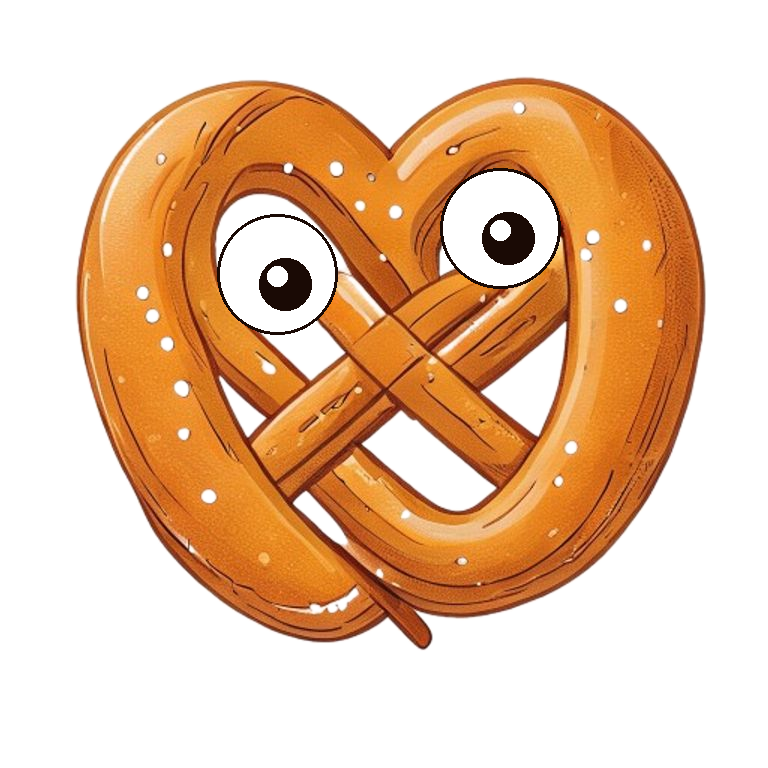
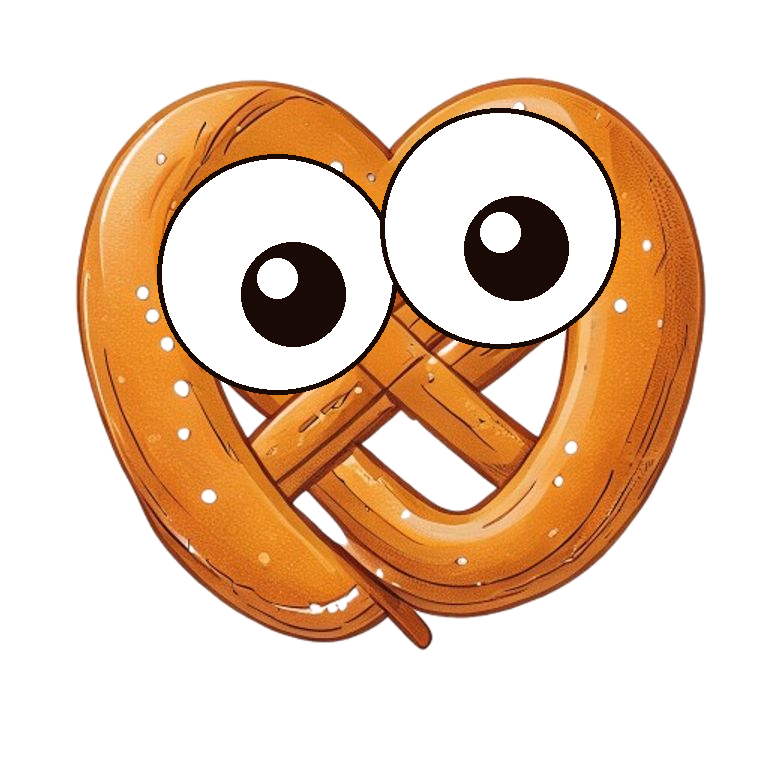
feat(brand, match): double pretzel eyes + lower emoji FAB + captain marker on pitch
Three asks bundled together:

1. PRETZEL EYES — doubled all 3 eye radius constants in repaint script
   (60→120 sclera, 26→52 pupil, 10→20 highlight) plus proportionally
   scaled the pupil + highlight offsets (8→16). Outline stroke 3→5 so
   the bigger sclera doesn't look unnaturally thin. Repaint script rerun
   regenerates the PNG; cache-bust ?v=5→?v=6 in the two consumers
   (DirectorCommentary, TeamSelectionModal captain banner).

2. EMOJI FAB — ReactionsButton dropped from `bottom-44` (176px) to
   `bottom-24` (96px). That's 80px lower visually, almost flush with
   the bottom edge. Keeps a 12px gap above the chat input on the chat
   tab (input sits at bottom-6, ~84px from bottom edge) so they
   don't collide.

3. CAPTAIN ON SQUAD PITCH — SquadVisualization now derives a
   captainPlayerIds Set from `members[*].captainPlayerId` and threads
   it down to CombinedPitchView. PlayerDot renders a yellow gradient
   "C" disc at top-right when its playerId is in that set. Every
   member's captain (yours + opponents) shows on the pitch so users
   can spot the 2x scorers at a glance. The badge sits OUTSIDE the
   dot's circular clip via an outer wrapper — the inner avatar still
   uses overflow:hidden for the photo crop.

Changed region(s): [[0.1875, 0.125, 0.8125, 0.5312]]

diff --git a/frontend/src/components/match/CombinedPitchView.jsx b/frontend/src/components/match/CombinedPitchView.jsx
@@ -32,7 +32,7 @@ function computeRowPcts(positioned, team) {
   return pcts
 }
 
-function PlayerDot({ player, xPct, yPct, color, isSelected, onClick }) {
+function PlayerDot({ player, xPct, yPct, color, isSelected, isCaptain, onClick }) {
   return (
     <div
       onClick={onClick}
@@ -40,41 +40,75 @@ function PlayerDot({ player, xPct, yPct, color, isSelected, onClick }) {
         position: 'absolute',
         left: `${xPct}%`,
         top: `${yPct}%`,
+        // outer wrapper keeps the captain badge OUTSIDE the dot's circular
+        // clip; the dot's `overflow: hidden` lives on the inner avatar wrapper.
         transform: 'translate(-50%, -50%)',
         width: 34,
         height: 34,
-        borderRadius: '50%',
-        background: isSelected ? '#14532d' : `${color}44`,
-        border: `2px solid ${isSelected ? '#22c55e' : color}`,
-        boxShadow: isSelected ? '0 0 8px rgba(34,197,94,0.7)' : '0 1px 6px rgba(0,0,0,0.7)',
         cursor: 'pointer',
-        overflow: 'hidden',
-        display: 'flex',
-        alignItems: 'center',
-        justifyContent: 'center',
-        zIndex: 1,
+        zIndex: isCaptain ? 2 : 1,
         WebkitTapHighlightColor: 'transparent',
         flexShrink: 0,
       }}
     >
-      {player.imageUrl ? (
-        <>
-          <img
-            src={player.imageUrl}
-            alt=""
-            referrerPolicy="no-referrer"
-            style={{ width: '100%', height: '100%', objectFit: 'cover', objectPosition: 'center top', display: 'block' }}
-            onError={e => { e.currentTarget.style.display = 'none'; e.currentTarget.nextSibling.style.display = 'block' }}
-          />
-          <span style={{ display: 'none', color: 'white', fontWeight: 900, fontSize: 10, fontFamily: 'system-ui' }}>
+      {/* Captain marker — yellow "C" disc at the top-right of the dot.
+          Renders for every member's captain on the pitch (current user
+          + opponents) so users see who has the 2× scoring boost. */}
+      {isCaptain && (
+        <div style={{
+          position: 'absolute',
+          top: -4,
+          right: -4,
+          width: 16,
+          height: 16,
+          borderRadius: '50%',
+          background: 'linear-gradient(135deg, #fcd34d 0%, #d97706 100%)',
+          border: '1.5px solid #fbbf24',
+          boxShadow: '0 0 6px rgba(252,211,77,0.7), 0 2px 3px rgba(0,0,0,0.4)',
+          color: '#1a0606',
+          fontSize: 10,
+          fontWeight: 900,
+          lineHeight: '13px',
+          fontFamily: 'system-ui, sans-serif',
+          textAlign: 'center',
+          zIndex: 3,
+          pointerEvents: 'none',
+        }}>C</div>
+      )}
+
+      <div
+        style={{
+          width: 34,
+          height: 34,
+          borderRadius: '50%',
+          background: isSelected ? '#14532d' : `${color}44`,
+          border: `2px solid ${isSelected ? '#22c55e' : color}`,
+          boxShadow: isSelected ? '0 0 8px rgba(34,197,94,0.7)' : '0 1px 6px rgba(0,0,0,0.7)',
+          overflow: 'hidden',
+          display: 'flex',
+          alignItems: 'center',
+          justifyContent: 'center',
+        }}
+      >
+        {player.imageUrl ? (
+          <>
+            <img
+              src={player.imageUrl}
+              alt=""
+              referrerPolicy="no-referrer"
+              style={{ width: '100%', height: '100%', objectFit: 'cover', objectPosition: 'center top', display: 'block' }}
+              onError={e => { e.currentTarget.style.display = 'none'; e.currentTarget.nextSibling.style.display = 'block' }}
+            />
+            <span style={{ display: 'none', color: 'white', fontWeight: 900, fontSize: 10, fontFamily: 'system-ui' }}>
+              {player.shirtNumber || '?'}
+            </span>
+          </>
+        ) : (
+          <span style={{ color: 'white', fontWeight: 900, fontSize: 10, fontFamily: 'system-ui' }}>
             {player.shirtNumber || '?'}
           </span>
-        </>
-      ) : (
-        <span style={{ color: 'white', fontWeight: 900, fontSize: 10, fontFamily: 'system-ui' }}>
-          {player.shirtNumber || '?'}
-        </span>
-      )}
+        )}
+      </div>
     </div>
   )
 }
@@ -89,7 +123,9 @@ export function CombinedPitchView({
   onHomePlayerClick,
   onAwayPlayerClick,
   selectedPlayerId = null,
+  captainPlayerIds = null,   // Set<string> of every member's captainPlayerId
 }) {
+  const captainSet = captainPlayerIds instanceof Set ? captainPlayerIds : new Set()
   const homePositioned = assignPlayersToFormation(homePlayers)
   const awayPositioned = assignPlayersToFormation(awayPlayers)
   const homeRowPcts = computeRowPcts(homePositioned, 'home')
@@ -170,6 +206,7 @@ export function CombinedPitchView({
               yPct={yPct}
               color={AWAY_COLOR}
               isSelected={!!(selectedPlayerId && player.playerId === selectedPlayerId)}
+              isCaptain={captainSet.has(player.playerId)}
               onClick={() => onAwayPlayerClick?.(player)}
             />
           )
@@ -187,6 +224,7 @@ export function CombinedPitchView({
               yPct={yPct}
               color={HOME_COLOR}
               isSelected={!!(selectedPlayerId && player.playerId === selectedPlayerId)}
+              isCaptain={captainSet.has(player.playerId)}
               onClick={() => onHomePlayerClick?.(player)}
             />
           )

diff --git a/frontend/src/components/match/SquadVisualization.jsx b/frontend/src/components/match/SquadVisualization.jsx
@@ -1,4 +1,4 @@
-import { useState } from 'react'
+import { useMemo, useState } from 'react'
 import { CombinedPitchView } from './CombinedPitchView'
 import { PlayerStatsPopup } from './PlayerStatsPopup'
 import { gameTimeToSeconds, formatFootballTime } from '../../utils/matchEvents'
@@ -150,6 +150,15 @@ export function SquadVisualization({
   // so this just sorts & renders. Empty when the room has no members yet.
   const sortedMembers = [...members].sort((a, b) => (b.score ?? 0) - (a.score ?? 0))
 
+  // Captain markers on the pitch: collect every member's captainPlayerId
+  // into one set so the PitchView can render a yellow "C" disc on each
+  // captain's dot — your captain AND your opponent's captain both
+  // highlighted (helps users spot the 2× scorer at a glance).
+  const captainPlayerIds = useMemo(
+    () => new Set((members || []).map(m => m.captainPlayerId).filter(Boolean)),
+    [members],
+  )
+
   return (
     <div className="w-full flex flex-col items-center gap-3">
       <CombinedPitchView
@@ -162,6 +171,7 @@ export function SquadVisualization({
         onHomePlayerClick={handleHomeClick}
         onAwayPlayerClick={handleAwayClick}
         selectedPlayerId={selectedPlayer?.playerId ?? null}
+        captainPlayerIds={captainPlayerIds}
       />
 
       {/* Leaderboard — collapsible. Rendered between the pitch and the

diff --git a/frontend/src/components/lobby/TeamSelectionModal.jsx b/frontend/src/components/lobby/TeamSelectionModal.jsx
@@ -1188,7 +1188,7 @@ export default function TeamSelectionModal({ matchId, roomCode, onDone, room, cu
                   boxShadow: '0 4px 16px -8px rgba(220,38,38,0.45)',
                 }}
               >
-                <img src="/brezn-agent.png?v=5" alt="" className="w-9 h-9 flex-shrink-0 object-contain" />
+                <img src="/brezn-agent.png?v=6" alt="" className="w-9 h-9 flex-shrink-0 object-contain" />
                 <div className="flex-1 min-w-0">
                   <p className="text-[9px] font-black tracking-widest uppercase text-amber-300/80 mb-0.5">
                     Brezn Commentator suggests

diff --git a/frontend/src/components/match/DirectorCommentary.jsx b/frontend/src/components/match/DirectorCommentary.jsx
@@ -93,7 +93,7 @@ function CommentaryCard({ entry }) {
           style={{ animation: 'directorRingPulse 1.8s ease-out 1' }}
         >
           <img
-            src="/brezn-agent.png?v=5"
+            src="/brezn-agent.png?v=6"
             alt=""
             aria-hidden="true"
             className="w-7 h-7 object-contain"

diff --git a/frontend/src/components/match/ReactionsButton.jsx b/frontend/src/components/match/ReactionsButton.jsx
@@ -63,7 +63,7 @@ export default function ReactionsButton({ roomCode }) {
   }
 
   return (
-    <div className="fixed bottom-44 right-4 z-50">
+    <div className="fixed bottom-24 right-4 z-50">
       {open && (
         <div
           className="absolute bottom-14 right-0 flex flex-col gap-1 mb-2"

diff --git a/scripts/repaint-brezn-eyes.py b/scripts/repaint-brezn-eyes.py
@@ -11,13 +11,13 @@ from PIL import Image, ImageDraw
 ROOT = Path(__file__).resolve().parent.parent
 OUT_PATH = ROOT / "frontend" / "public" / "brezn-agent.png"
 
-EYE_RADIUS       = 60
-EYE_OUTLINE_W    = 3
+EYE_RADIUS       = 120
+EYE_OUTLINE_W    = 5
 EYE_OUTLINE      = (26, 10, 5, 255)
 SCLERA           = (255, 255, 255, 255)
-PUPIL_RADIUS     = 26
+PUPIL_RADIUS     = 52
 PUPIL            = (26, 10, 5, 255)
-HIGHLIGHT_RADIUS = 10
+HIGHLIGHT_RADIUS = 20
 HIGHLIGHT        = (255, 255, 255, 255)
 LEFT_EYE_CENTER  = (277, 274)
 RIGHT_EYE_CENTER = (500, 228)
@@ -29,12 +29,12 @@ for cx, cy in (LEFT_EYE_CENTER, RIGHT_EYE_CENTER):
         [(cx - EYE_RADIUS, cy - EYE_RADIUS), (cx + EYE_RADIUS, cy + EYE_RADIUS)],
         fill=SCLERA, outline=EYE_OUTLINE, width=EYE_OUTLINE_W,
     )
-    pcx, pcy = cx + 8, cy + 10
+    pcx, pcy = cx + 16, cy + 20
     draw.ellipse(
         [(pcx - PUPIL_RADIUS, pcy - PUPIL_RADIUS), (pcx + PUPIL_RADIUS, pcy + PUPIL_RADIUS)],
         fill=PUPIL,
     )
-    hcx, hcy = pcx - 8, pcy - 8
+    hcx, hcy = pcx - 16, pcy - 16
     draw.ellipse(
         [(hcx - HIGHLIGHT_RADIUS, hcy - HIGHLIGHT_RADIUS),
          (hcx + HIGHLIGHT_RADIUS, hcy + HIGHLIGHT_RADIUS)],
